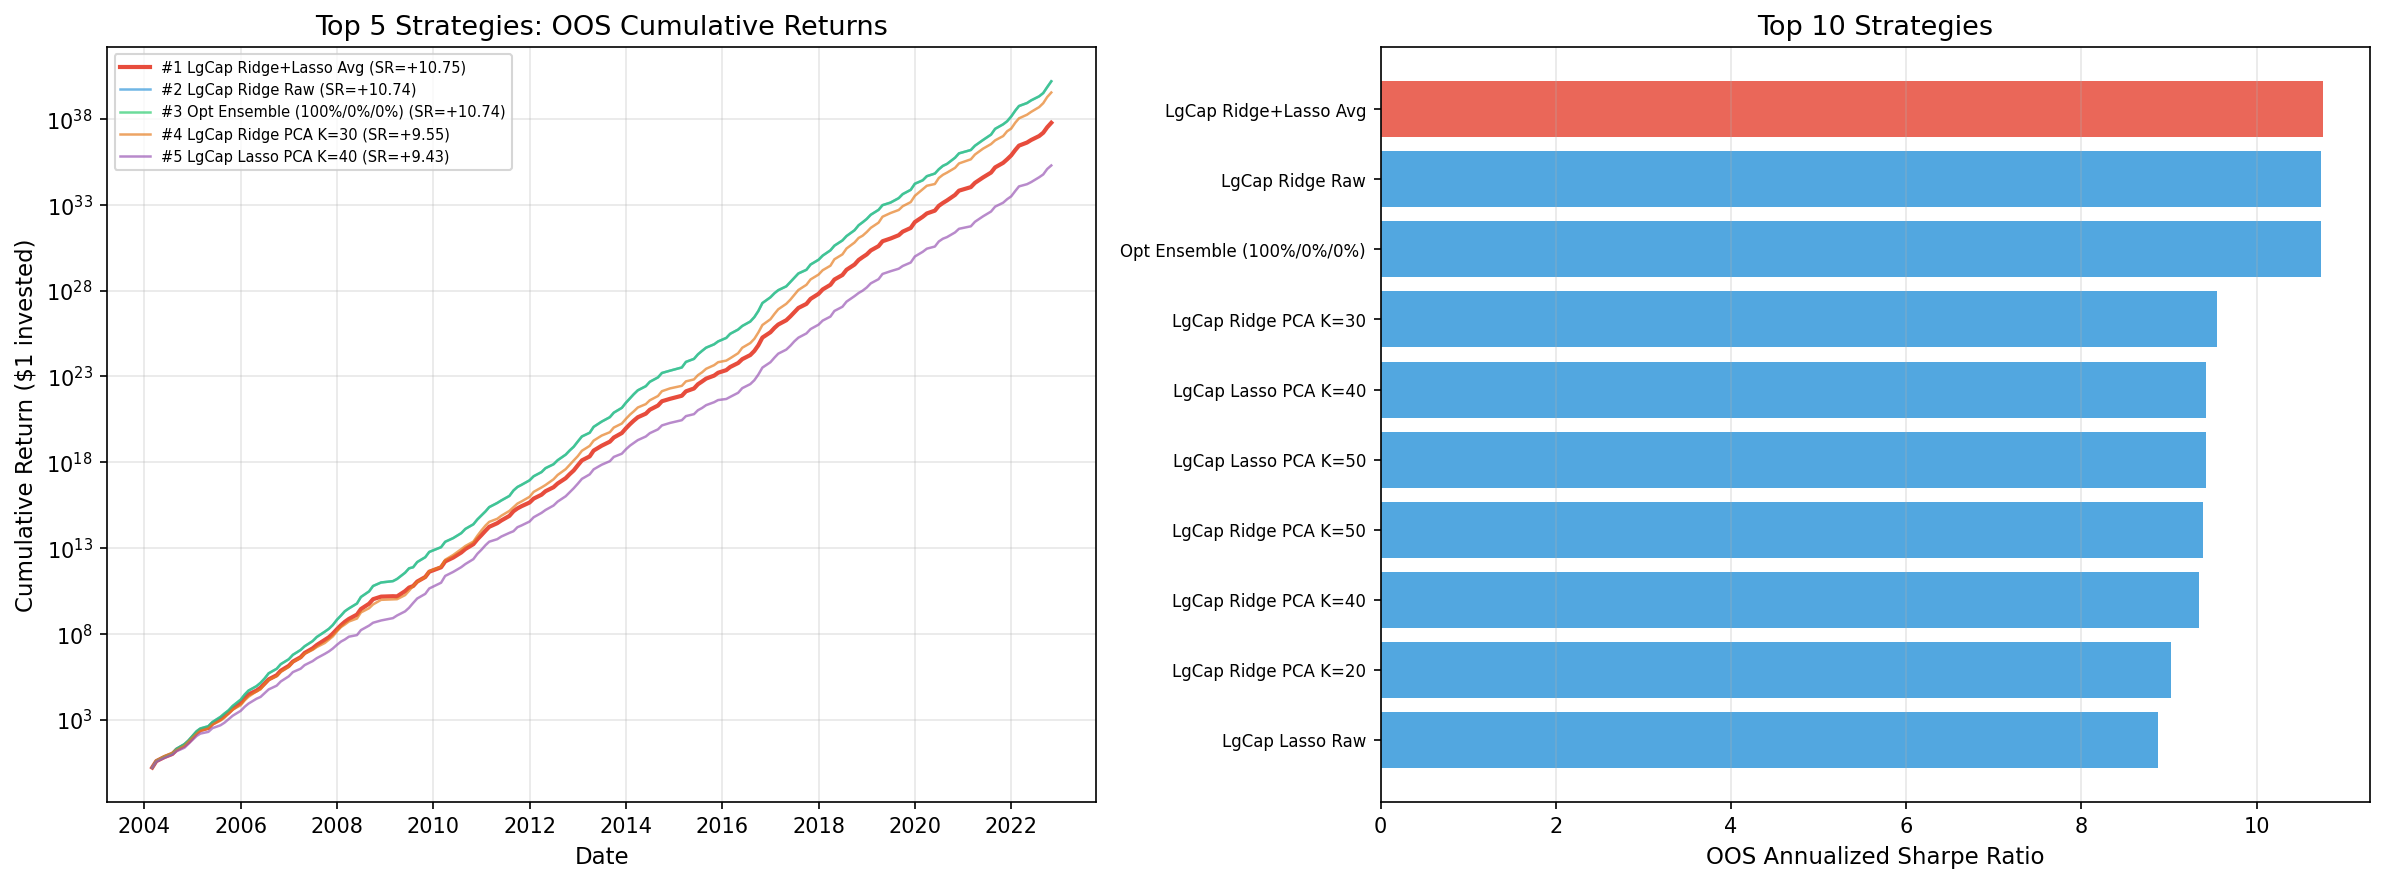
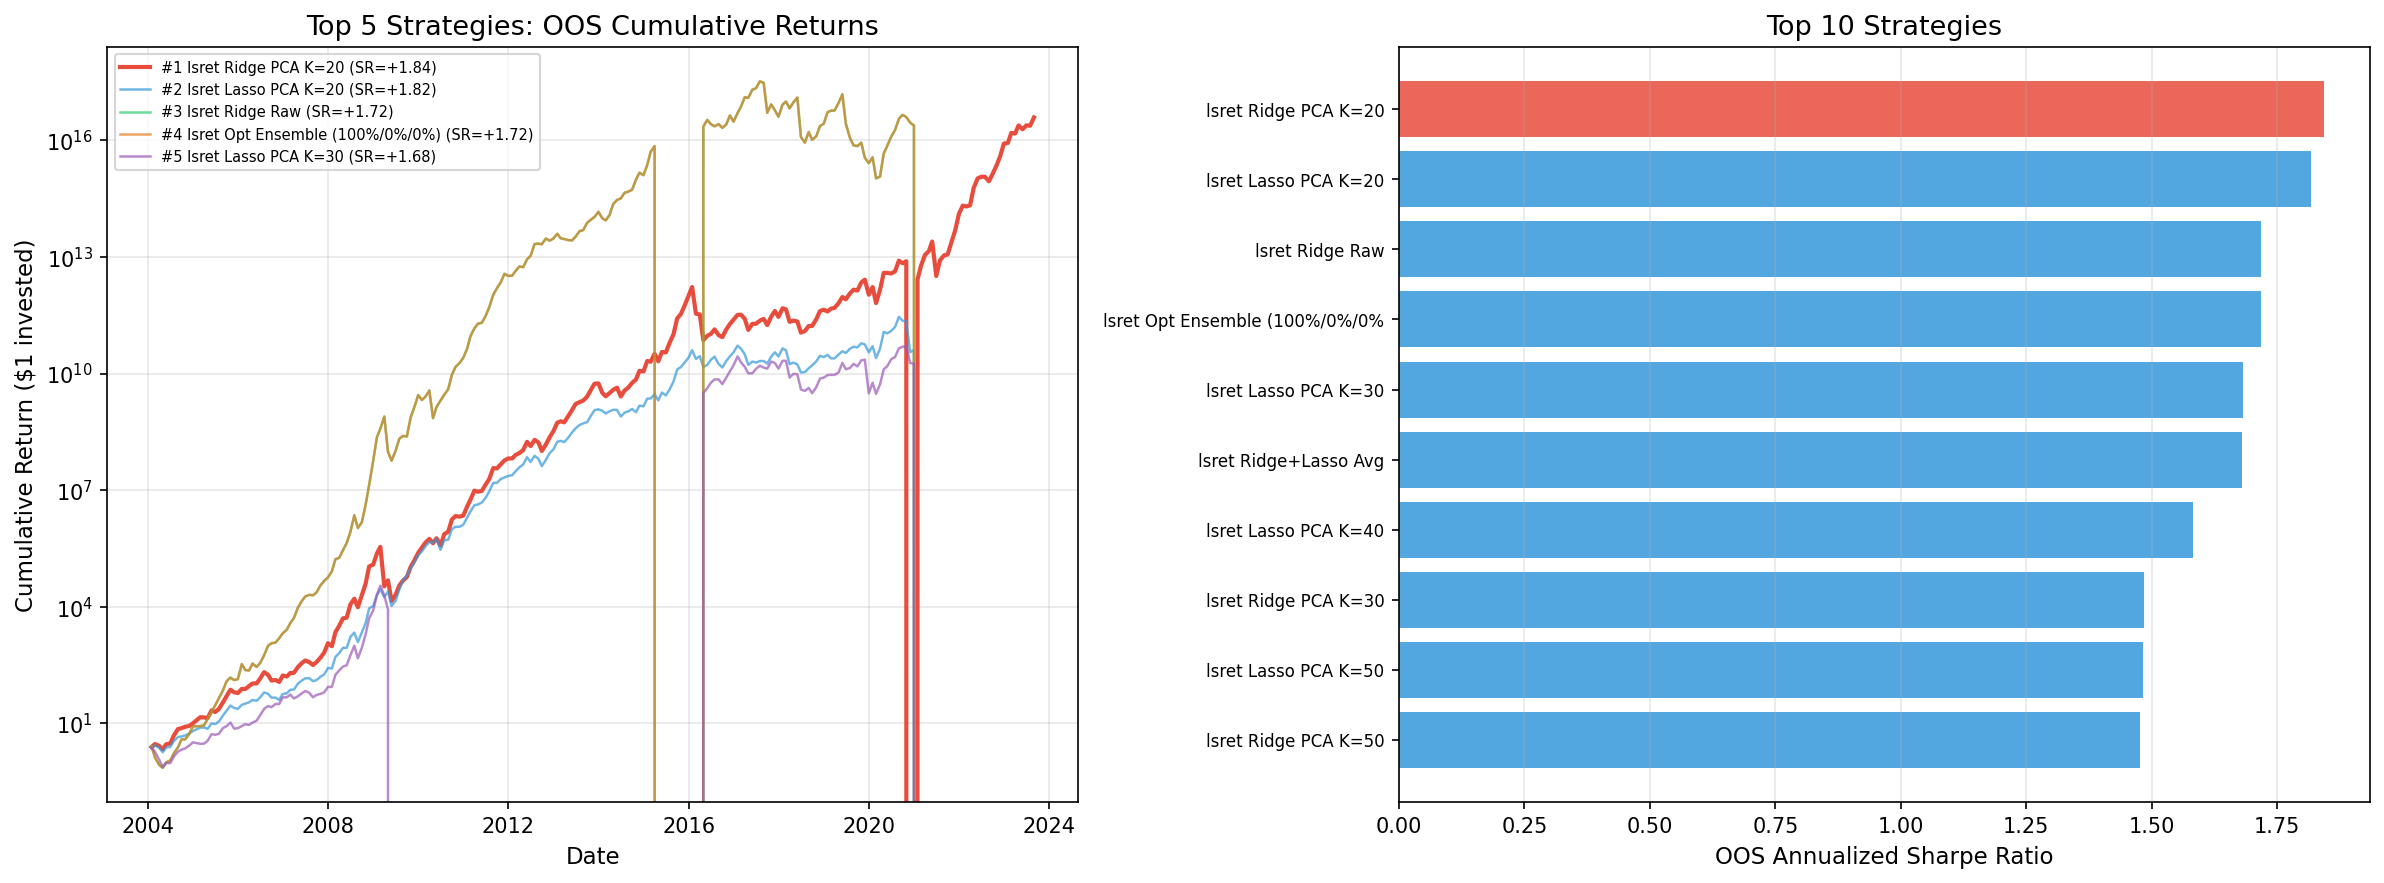
revise task 2e

diff --git a/task2e_best_portfolio.py b/task2e_best_portfolio.py
@@ -1,16 +1,17 @@
 """
 Task 2(e): Construct the Highest OOS Sharpe Ratio Portfolio
 ===========================================================
-Systematically try multiple strategies and ensembles from Problems 1 & 2,
-all evaluated on the common post-2004 OOS window.
+Using the portfolios from lsret.csv, attempt to form a portfolio that
+earns the highest possible Sharpe ratio out-of-sample.
 
-Candidate strategies:
-  A. Large Cap indicator Ridge/Lasso (raw returns)
-  B. Large Cap PCA indicator (various K)
-  C. lsret indicator Ridge/Lasso (raw + PCA)
-  D. Cross-universe ensembles
-  E. PCA factor screening (select factors by in-sample Sharpe)
-  F. Optimized ensemble weights (grid search, NO look-ahead)
+Candidate strategies (all derived from lsret.csv):
+  A. Raw indicator Ridge/Lasso regression
+  B. PCA indicator regression (various K)
+  E. Optimized multi-strategy ensemble (grid search, NO look-ahead)
+
+Large Cap strategies (A-C) are also computed for reference but are
+excluded from the final ranking and winner selection per the task
+instructions.
 """
 
 import pandas as pd
@@ -268,37 +269,37 @@ if len(common) > 0:
 
 
 # ── E. Optimized 3-Strategy Ensemble (weights from TRAIN period) ─────────────
-print("\n--- E. Optimized Multi-Strategy Ensemble ---")
+print("\n--- E. Optimized Multi-Strategy Ensemble (lsret) ---")
 
-# Build train-period portfolios for weight optimization
-Y_tr_lg = np.ones(R_tr_lg.shape[0])
-ridge_lg = RidgeCV(alphas=np.logspace(-4, 8, 100), cv=tscv, fit_intercept=False)
-ridge_lg.fit(R_tr_lg, Y_tr_lg)
-train_port_lg_ridge = R_tr_lg @ ridge_lg.coef_
+# Build train-period portfolios for weight optimization using lsret
+Y_tr_ls_e = np.ones(R_tr_ls.shape[0])
+ridge_ls_e = RidgeCV(alphas=np.logspace(-4, 8, 100), cv=tscv, fit_intercept=False)
+ridge_ls_e.fit(R_tr_ls, Y_tr_ls_e)
+train_port_ls_ridge = R_tr_ls @ ridge_ls_e.coef_
 
-lasso_lg = LassoCV(alphas=np.logspace(-5, 1, 100), cv=tscv,
-                    fit_intercept=False, max_iter=50000)
-lasso_lg.fit(R_tr_lg, Y_tr_lg)
-train_port_lg_lasso = R_tr_lg @ lasso_lg.coef_
+lasso_ls_e = LassoCV(alphas=np.logspace(-5, 1, 100), cv=tscv,
+                      fit_intercept=False, max_iter=50000)
+lasso_ls_e.fit(R_tr_ls, Y_tr_ls_e)
+train_port_ls_lasso = R_tr_ls @ lasso_ls_e.coef_
 
-# PCA K=20 on Large Cap train
-pca_lg = PCA(n_components=R_tr_lg.shape[1])
-pca_lg.fit(R_tr_lg)
-V_lg = pca_lg.components_
-F_tr_lg20 = (R_tr_lg @ V_lg.T)[:, :20]
-ridge_pca20 = RidgeCV(alphas=np.logspace(-4, 8, 100), cv=tscv, fit_intercept=False)
-ridge_pca20.fit(F_tr_lg20, Y_tr_lg)
-train_port_lg_pca20 = F_tr_lg20 @ ridge_pca20.coef_
-test_port_lg_pca20  = (R_te_lg @ V_lg.T)[:, :20] @ ridge_pca20.coef_
+# PCA K=20 on lsret train
+pca_ls_e = PCA(n_components=R_tr_ls.shape[1])
+pca_ls_e.fit(R_tr_ls)
+V_ls_e = pca_ls_e.components_
+F_tr_ls20 = (R_tr_ls @ V_ls_e.T)[:, :20]
+ridge_pca20_ls = RidgeCV(alphas=np.logspace(-4, 8, 100), cv=tscv, fit_intercept=False)
+ridge_pca20_ls.fit(F_tr_ls20, Y_tr_ls_e)
+train_port_ls_pca20 = F_tr_ls20 @ ridge_pca20_ls.coef_
+test_port_ls_pca20  = (R_te_ls @ V_ls_e.T)[:, :20] @ ridge_pca20_ls.coef_
 
 # Grid search over weights using TRAIN Sharpe (no look-ahead)
-train_strats = np.column_stack([train_port_lg_ridge, train_port_lg_lasso, train_port_lg_pca20])
+train_strats = np.column_stack([train_port_ls_ridge, train_port_ls_lasso, train_port_ls_pca20])
 test_strats  = np.column_stack([
-    R_te_lg @ ridge_lg.coef_,
-    R_te_lg @ lasso_lg.coef_,
-    test_port_lg_pca20
+    R_te_ls @ ridge_ls_e.coef_,
+    R_te_ls @ lasso_ls_e.coef_,
+    test_port_ls_pca20
 ])
-strat_names = ["LgRidge", "LgLasso", "LgPCA20"]
+strat_names = ["lsret Ridge", "lsret Lasso", "lsret PCA20"]
 
 best_train_sr = -np.inf
 best_weights = None
@@ -317,22 +318,26 @@ for w1 in np.arange(0, 1 + step/2, step):
 
 test_opt = test_strats @ best_weights
 add_candidate(
-    f"Opt Ensemble ({best_weights[0]:.0%}/{best_weights[1]:.0%}/{best_weights[2]:.0%})",
-    test_opt, dt_lg,
+    f"lsret Opt Ensemble ({best_weights[0]:.0%}/{best_weights[1]:.0%}/{best_weights[2]:.0%})",
+    test_opt, dt_ls,
     f"Train-optimized: {best_weights[0]:.0%} Ridge + {best_weights[1]:.0%} Lasso + "
     f"{best_weights[2]:.0%} PCA20 (train SR={best_train_sr:.2f})"
 )
 
 
 # ══════════════════════════════════════════════════════════════════════════════
-# 3. RANK ALL STRATEGIES
+# 3. RANK lsret STRATEGIES (Task 2(e) restricts to lsret.csv portfolios)
 # ══════════════════════════════════════════════════════════════════════════════
 print("\n" + "=" * 70)
-print("ALL STRATEGIES RANKED BY OOS SHARPE RATIO")
+print("lsret STRATEGIES RANKED BY OOS SHARPE RATIO")
+print("(Task 2(e): using the portfolios from lsret.csv)")
 print("=" * 70)
 
-ranked = sorted(candidates.items(), key=lambda x: x[1]["sr"]
-                if not np.isnan(x[1]["sr"]) else -999, reverse=True)
+# Filter to only lsret-derived strategies (exclude LgCap / Cross-Universe / Ensemble Lg)
+ranked_all = sorted(candidates.items(), key=lambda x: x[1]["sr"]
+                    if not np.isnan(x[1]["sr"]) else -999, reverse=True)
+ranked = [(n, r) for n, r in ranked_all
+          if n.startswith("lsret")]
 
 print(f"\n{'Rank':>4s}  {'Strategy':>50s}  {'SR':>8s}  {'Months':>6s}  Description")
 print("-" * 120)
